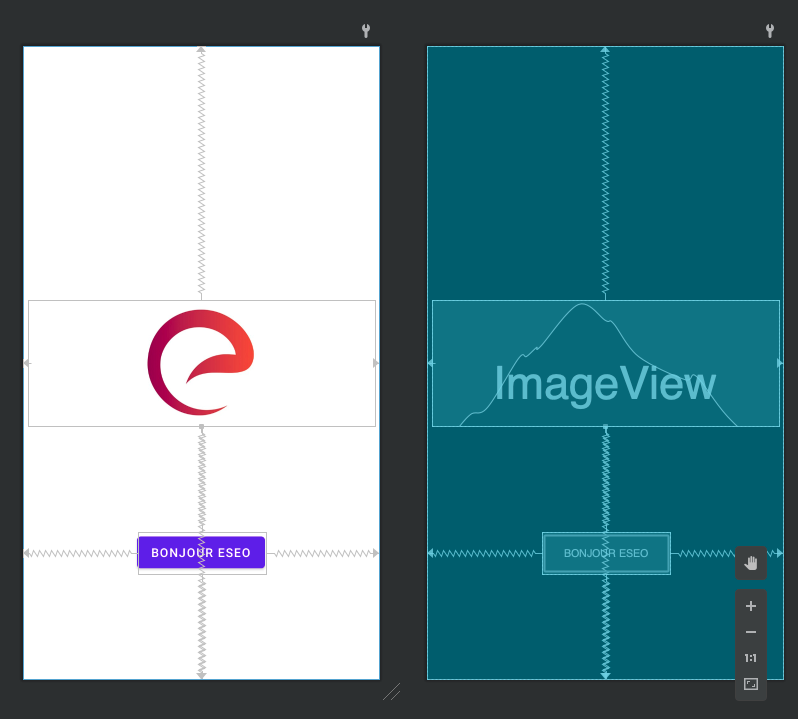
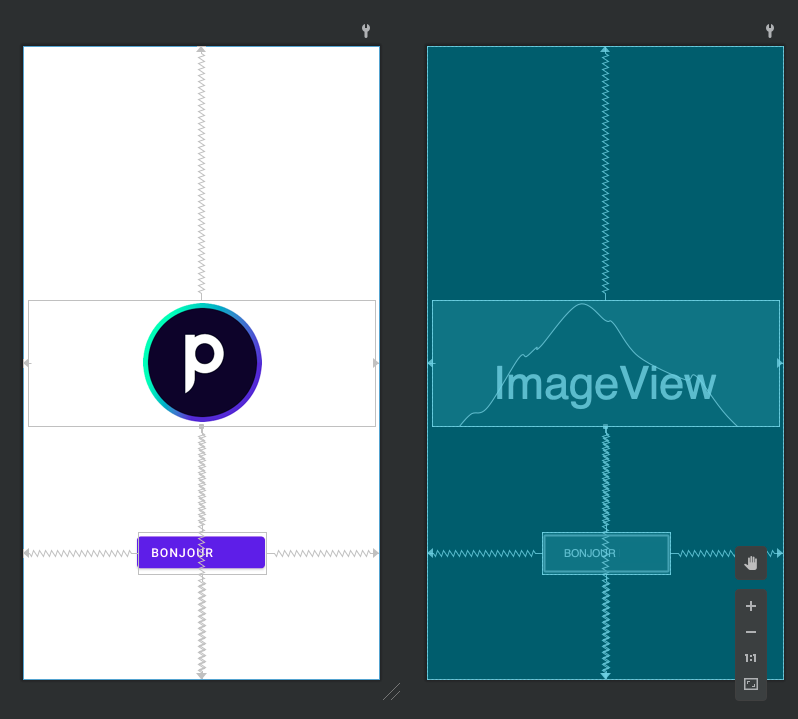
Retrait ESEO

Changed region(s): [[0.1805, 0.3978, 0.3308, 0.612], [0.782, 0.765, 0.812, 0.7955], [0.2707, 0.765, 0.3008, 0.7955]]

diff --git a/tp/android/android-base-tp.md b/tp/android/android-base-tp.md
@@ -184,7 +184,7 @@ Je vous laisse réaliser l'ensemble des contraintes afin que votre layout ressem
 
 ![Constrainte](./ressources/constrainte.png)
 
-:warning: Vous noterez l'icône de l'ESEO, je vous laisse l'ajouter dans le dossier `drawable` de votre projet. Le fichier doit être au format `png` ou `jpeg`. Une fois celle-ci ajoutée modifier l'ImageView pour l'utiliser dans l'`ImageView` avec par exemple `app:srcCompat="@drawable/eseo"`.
+:warning: Vous noterez l'icône de Playmoweb, je vous laisse l'ajouter dans le dossier `drawable` de votre projet. Le fichier doit être au format `png` ou `jpeg`. Une fois celle-ci ajoutée modifier l'ImageView pour l'utiliser dans l'`ImageView` avec par exemple `app:srcCompat="@drawable/logo"`.
 
 :hand: Relancer l'application et tester que celle-ci fonctionne.
 
@@ -520,8 +520,8 @@ Maintenant que vous savez comment ouvrir une intent Externe :
 
 - Ajouter sur la `MainActivity` une icône en haut à droite type « Settings ».
 - Celle-ci doit être cliquable et doit permettre d'ouvrir les paramètres (`ACTION_SETTINGS`).
-- Ajouter sous le bouton « En bas de l'activité » un texte cliquable `TextView` permettant d'ouvrir le site de l'ESEO.
-- Ajoute à côté du `TextView` un second `TextView` qui ouvre l'adresse / la position GPS de l'ESEO dans Google Maps.
+- Ajouter sous le bouton « En bas de l'activité » un texte cliquable `TextView` permettant d'ouvrir le site de l'école.
+- Ajoute à côté du `TextView` un second `TextView` qui ouvre l'adresse / la position GPS de l'école dans Google Maps.
 
 Exemple :
 
@@ -778,8 +778,8 @@ Je vous laisse créer une nouvelle activité. Celle-ci **doit être** constitué
   - Paramètres Bluetooth -> ouvre les paramètres du téléphone.
   - Informations -> ouvre une activité (ou un dialogue avec un message texte).
   - Un élément ouvrant « les paramètres de l'application »
-  - Un lien vers le site de l'ESEO.
-  - Un lien vers le Google Maps de l'ESEO.
+  - Un lien vers le site de l'école.
+  - Un lien vers le Google Maps de l'école.
 
 ::: danger Votre RecyclerView
 Votre RecyclerView va contenir des objets du type SettingsItem (class a créé). Chaque élément va ressembler à :
@@ -809,7 +809,7 @@ val mesItems = arrayOf(
     SettingsItem("Paramètres", R.drawable.settings) {
         // Action lors du click
     },
-    SettingsItem("Site de l'ESEO", R.drawable.logo_eseo) {
+    SettingsItem("Site de l'école", R.drawable.logo_eseo) {
         // Action lors du click
     }
 )

diff --git a/tp/android/android-base2-tp.md b/tp/android/android-base2-tp.md
@@ -31,7 +31,7 @@ Celle-ci est certainement la plus simple à mettre en place. Vous n'aurez aucun 
 Pour mettre en place les animations automatiques il suffit d'ajouter `animationLayoutChange` à la racine du layout à animé layout. Je vous laisse le mettre en place dans votre projet :
 
 - Modifier le layout de votre `splash` pour y ajouter le `animationLayoutChange`.
-- Masquer de base le logo de l'ESEO.
+- Masquer de base le logo de l'école.
 - Afficher celui-ci après un délai (comme vu précédemment).
 - Le changement sera normalement « animé ».
 
@@ -42,7 +42,7 @@ Je vous laisse tester.
 AKA la technique cheap « et pas ouf ». Je vous l'indique, car c'est marrant ! Et que nous sommes dans un monde où nous utilisons des GIF souvent… Mais en réalité c'est nul comme technique… Lire des GIF ne sont pas supportés nativement par Android, par contre c'est assez simple d'ajouter le support :
 
 - Ajouter la librairie [GifView](https://github.com/Cutta/GifView).
-- Remplacer le logo de l'ESEO par un logo animé sur votre Splash.
+- Remplacer le logo de l'école par un logo animé sur votre Splash.
 - Lancer l'`activity` principale à la fin de l'animation.
 
 Je vous laisse tester.
@@ -281,11 +281,11 @@ Je vous passe la création des activités et des Fragments. Ce que nous allons a
 
     <fragment
         android:id="@+id/page_1"
-        android:name="com.eseo.myapplication2.ui.bottom.fragment.Page1"
+        android:name="com.pmw.myapplication2.ui.bottom.fragment.Page1"
         android:label="Page1" />
     <fragment
         android:id="@+id/page_2"
-        android:name="com.eseo.myapplication2.ui.bottom.fragment.Page2"
+        android:name="com.pmw.myapplication2.ui.bottom.fragment.Page2"
         android:label="Page2" />
 
 </navigation>

diff --git a/tp/android/app-base-android.md b/tp/android/app-base-android.md
@@ -28,7 +28,7 @@ L'application à fournir doit contenir **au minimum** les éléments suivants :
     - Paramétrages
 - Une activity Localisation permettant de :
   - Localiser la personne (via le GPS ou le Réseau au choix).
-  - Une fois la localisation obtenue, la distance entre l'ESEO et sa position doit être affichée en **kilomètre**.
+  - Une fois la localisation obtenue, la distance entre l'école et sa position doit être affichée en **kilomètre**.
   - À chaque localisation, à l'aide des **SharedPreferences**, enregistrez la demande pour la lister dans la vue « historique ».
   - Vous devez gérer correctement le flow permission comme vue ensemble (avec gestion des erreurs)
 - Une activity Historique :
@@ -42,8 +42,8 @@ L'application à fournir doit contenir **au minimum** les éléments suivants :
   - Utilisation d'un **Recyclerview** qui doit contenir :
     - L'accès aux paramètres **de l'application**.
     - L'accès au paramétrage de **localisation du téléphone**.
-    - Ouverture de l'application « carte » du téléphone sur la position géo de l'ESEO.
-    - Ouverture du site de l'ESEO.
+    - Ouverture de l'application « carte » du téléphone sur la position géo de l'école.
+    - Ouverture du site de l'école.
     - Ouverture de l'application « email » pour vous contacter. (lien type mailto)
 
 ## Wireframe

diff --git a/tp/composants/android.md b/tp/composants/android.md
@@ -410,7 +410,7 @@ Nous créons fréquemment des classes dont le but principal est de conserver des
 
 :::
 
-C'est à vous, je vous laisse modifier votre liste (nommé `myData`) par une liste de `CardContent` (la classe que vous avez créée). Cette liste doit contenir 10 éléments avec des titres, des contenus et une image différente que celle par défaut (le logo de l'ESEO par exemple).
+C'est à vous, je vous laisse modifier votre liste (nommé `myData`) par une liste de `CardContent` (la classe que vous avez créée). Cette liste doit contenir 10 éléments avec des titres, des contenus et une image différente que celle par défaut (le logo de l'école par exemple).
 
 ::: details Besoin d'aide ?
 

diff --git a/.vuepress/public/cours/sources/android_ble/slides.md b/.vuepress/public/cours/sources/android_ble/slides.md
@@ -127,7 +127,7 @@ Avec l'application « nRF Connect »
 - Design du layout.
 - Les contraintes :
   - Le bouton « actions » ne doit pas être actif si pas de périphérique sélectionné.
-  - Afficher le logo de L'ESEO.
+  - Afficher le logo du campus / école.
 
 ---
 
@@ -969,7 +969,7 @@ BuildConfig.URI_REMOTE_SERVER ?
 
 ```apacheconf
 defaultConfig {
-    buildConfigField "String", "URI_REMOTE_SERVER", "\"https://us-central1-eseo-course.cloudfunctions.net\""
+    buildConfigField "String", "URI_REMOTE_SERVER", "\"http://IP.DU.ESP\""
 …
 }
 ```

diff --git a/tp/android/app-ble-network.md b/tp/android/app-ble-network.md
@@ -917,7 +917,7 @@ En utilisant l'UUID `1497b8a8-64f8-11ee-8c99-0242ac120002` vous pouvez changer l
 private fun sendDeviceName() {
     getMainDeviceService()?.let { service ->
         val setDeviceName = service.getCharacteristic(BluetoothLEManager.CHARACTERISTIC_SET_DEVICE_NAME)
-        setDeviceName.setValue("LeNomDuDevice") // Le ESEO- est ajouté automatiquement
+        setDeviceName.setValue("LeNomDuDevice") // Le PMW- est ajouté automatiquement
         currentBluetoothGatt?.writeCharacteristic(setDeviceName)
     }
 }

diff --git a/.vuepress/public/cours/sources/android_http/slides.md b/.vuepress/public/cours/sources/android_http/slides.md
@@ -161,7 +161,7 @@ BuildConfig.URI_REMOTE_SERVER ?
 
 ```apacheconf
 defaultConfig {
-    buildConfigField "String", "URI_REMOTE_SERVER", "\"https://us-central1-eseo-course.cloudfunctions.net\""
+    buildConfigField "String", "URI_REMOTE_SERVER", "\"http://IP.DE.VOTRE.ESP\""
 …
 }
 ```
